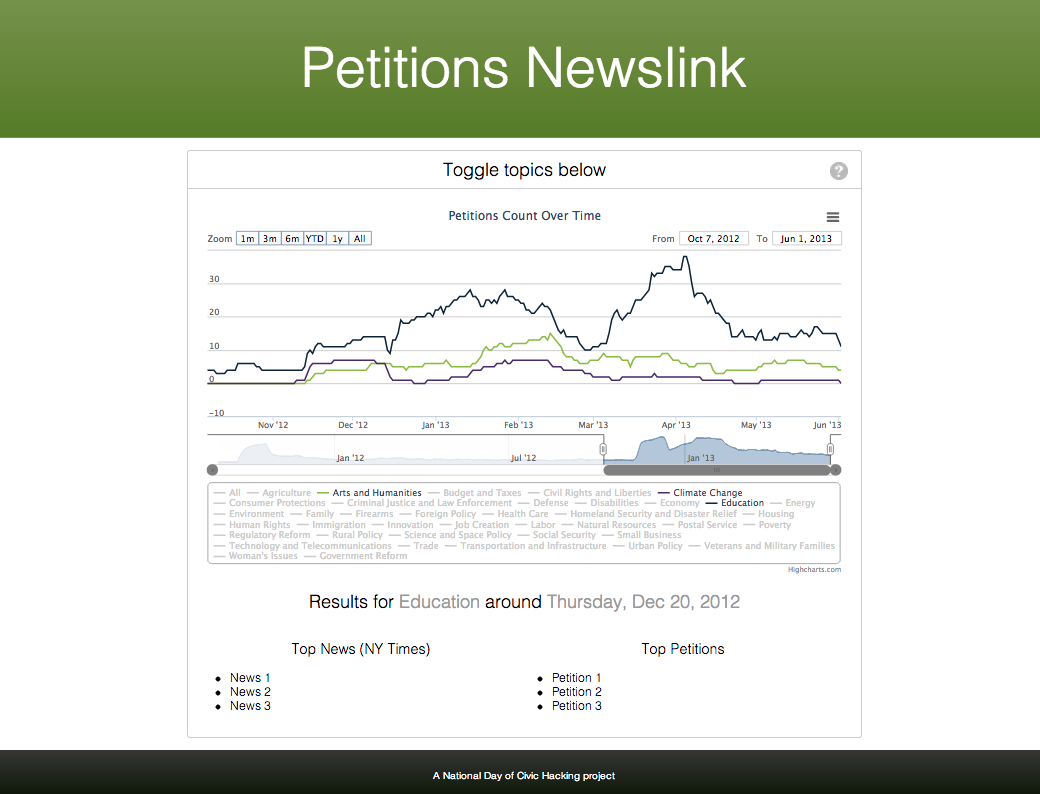
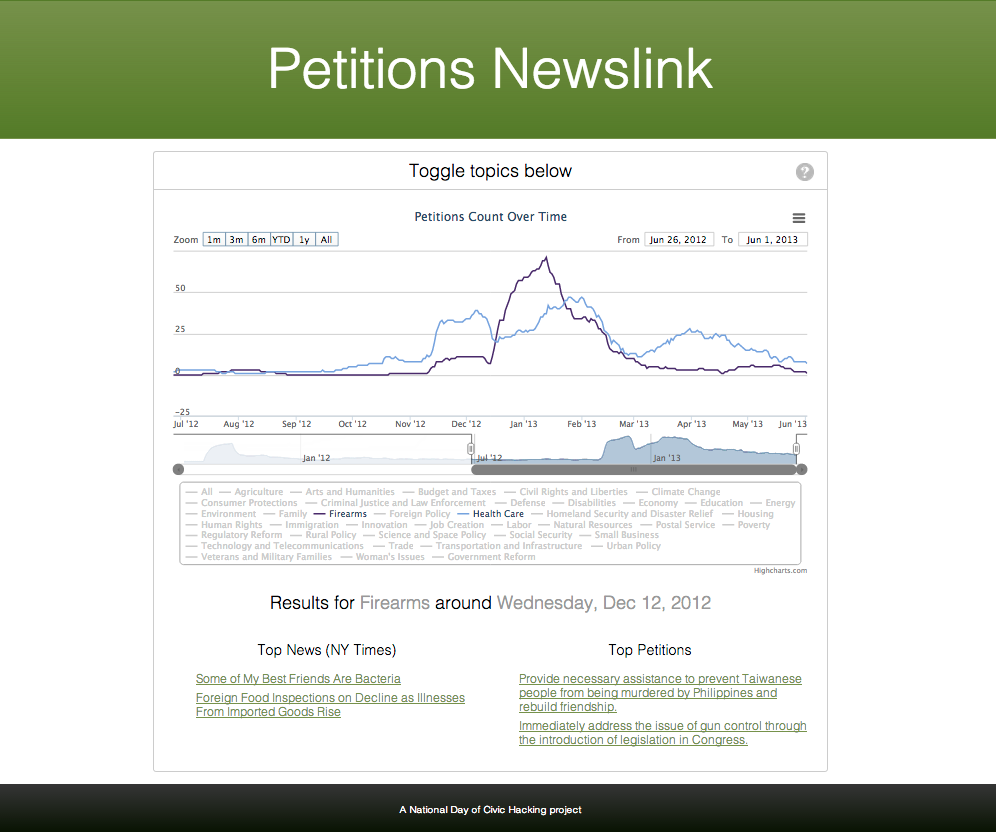
This is the status of the project, as of the presentation.

diff --git a/script.js b/script.js
@@ -52,6 +52,7 @@ $(function(){
 			  '181': 'Veterans and Military Families',
 			  '187': "Woman's Issues"};
 
+	console.log("Issues: " + issues);
 
 	// Build an array of timestamps.
 	//   resolution = # of days between data points.
@@ -85,6 +86,30 @@ $(function(){
 			}
 		});
 	};
+
+	var getRelatedContent = function(timestamp, issue_id) {
+		var related_content;
+		var json_url = 'http://lisabacker.com/wethepeople/?searchDate=' + timestamp + '&issueId=' + issue_id;
+		// Make API Request.
+		$.ajax({
+    		url: json_url,
+    		type:'GET',
+    		dataType:'JSONP',
+    		success: function(data){
+    			var resultset = data.metadata.resultset,
+				related_content = data.results;
+				$('body').trigger('relatedContentLoaded');
+   			}
+		});
+		/*
+		$.getJSON(url, function(data){
+			var resultset = data.metadata.resultset,
+			related_content = data.results;
+		});
+		*/
+
+		return related_content;
+	}
 
 	// A loop to count open petitions on a given date.
 	var searchPetitions = function(timestamp, issue_name) {
@@ -157,11 +182,32 @@ $(function(){
                         events: {
                             click: function() {
                             	console.log(this.series.name);
+                            	console.log(this.series.index);
+                            	console.log(this.x);
                             	console.log(Highcharts.dateFormat('%A, %b %e, %Y', this.x));
 								
-								$('.results').slideToggle();
+								if ($(".results").is(":hidden")) {
+									$('.results').slideDown();
+								}
+
+								$('.topic').empty();
 								$('.topic').append(this.series.name);
+
+								$('.date').empty();
 								$('.date').append(Highcharts.dateFormat('%A, %b %e, %Y', this.x));
+
+								var relatedContent = getRelatedContent(1369440000,22);
+								console.log(relatedContent);
+								/*
+								$.each(relatedContent, function(index, result){
+									// build out the list based on results.
+									$('.petition-list').empty();
+									$('news-list').empty();
+									
+
+								});
+								*/
+
                             }
                         }
                     },
@@ -205,6 +251,7 @@ $(function(){
 
 			allTrends.push({
 				name: issueName,
+				index: ind,
 				data: cloneCountLog(countLog),
 				visible: visibility
 			});

diff --git a/newslink.html b/newslink.html
@@ -30,21 +30,19 @@
 						<img class="loading" src="img/loading.gif" />
 						<div id="container" style="height: 500px; min-width: 500px"></div>
 						<div class="results clearfix" style="display: none;">
-							<h2>Results for <span class="topic"> </span> around <span class="date"> </span></h2>
+							<h2>Results for <span class="topic"></span> around <span class="date"></span></h2>
 							<div class="news-results">
 								<h3>Top News (NY Times)</h3>
-								<ul>
-									<li><a href=""></a>News 1</li>
-									<li><a href=""></a>News 2</li>
-									<li><a href=""></a>News 3</li>
+								<ul class="news-list">
+									<li><a href="http://www.nytimes.com/2013/05/19/magazine/say-hello-to-the-100-trillion-bacteria-that-make-up-your-microbiome.html">Some of My Best Friends Are Bacteria</a></li>
+									<li><a href="http://www.nytimes.com/2013/05/08/us/foreign-food-inspections-decline-as-illnesses-rise.html">Foreign Food Inspections on Decline as Illnesses From Imported Goods Rise</a></li>
 								</ul>
 							</div>
 							<div class="petition-results">
 								<h3>Top Petitions</h3>
-								<ul>
-									<li><a href=""></a>Petition 1</li>
-									<li><a href=""></a>Petition 2</li>
-									<li><a href=""></a>Petition 3</li>
+								<ul class="petition-list">
+									<li><a href="#">Provide necessary assistance to prevent Taiwanese people from being murdered by Philippines and rebuild friendship.</a></li>
+									<li><a href="#">Immediately address the issue of gun control through the introduction of legislation in Congress.</a></li>
 								</ul>
 							</div>
 						</div>

diff --git a/style.css b/style.css
@@ -76,10 +76,10 @@ h1, h2, h3, h4, h5, h6 {
 	left: 280px;
 }
 
-.results a:link { color:#77933e; }
-.results a:visited { color:#77933e; }
-.results a:hover { color:#77933e; }
-.results a:active { color:#77933e; }
+.results a:link { color:#77933e; text-decoration:none; }
+.results a:visited { color:#77933e; text-decoration:none; }
+.results a:hover { color:#77933e; text-decoration:none; }
+.results a:active { color:#77933e; text-decoration:none; }
 
 .results h2,
 .results h3 {
@@ -88,7 +88,7 @@ h1, h2, h3, h4, h5, h6 {
 
 .results li {
     list-style-type: none;
-    margin: 6px 0;
+    margin: 8px 0;
 }
 
 .news-results,
